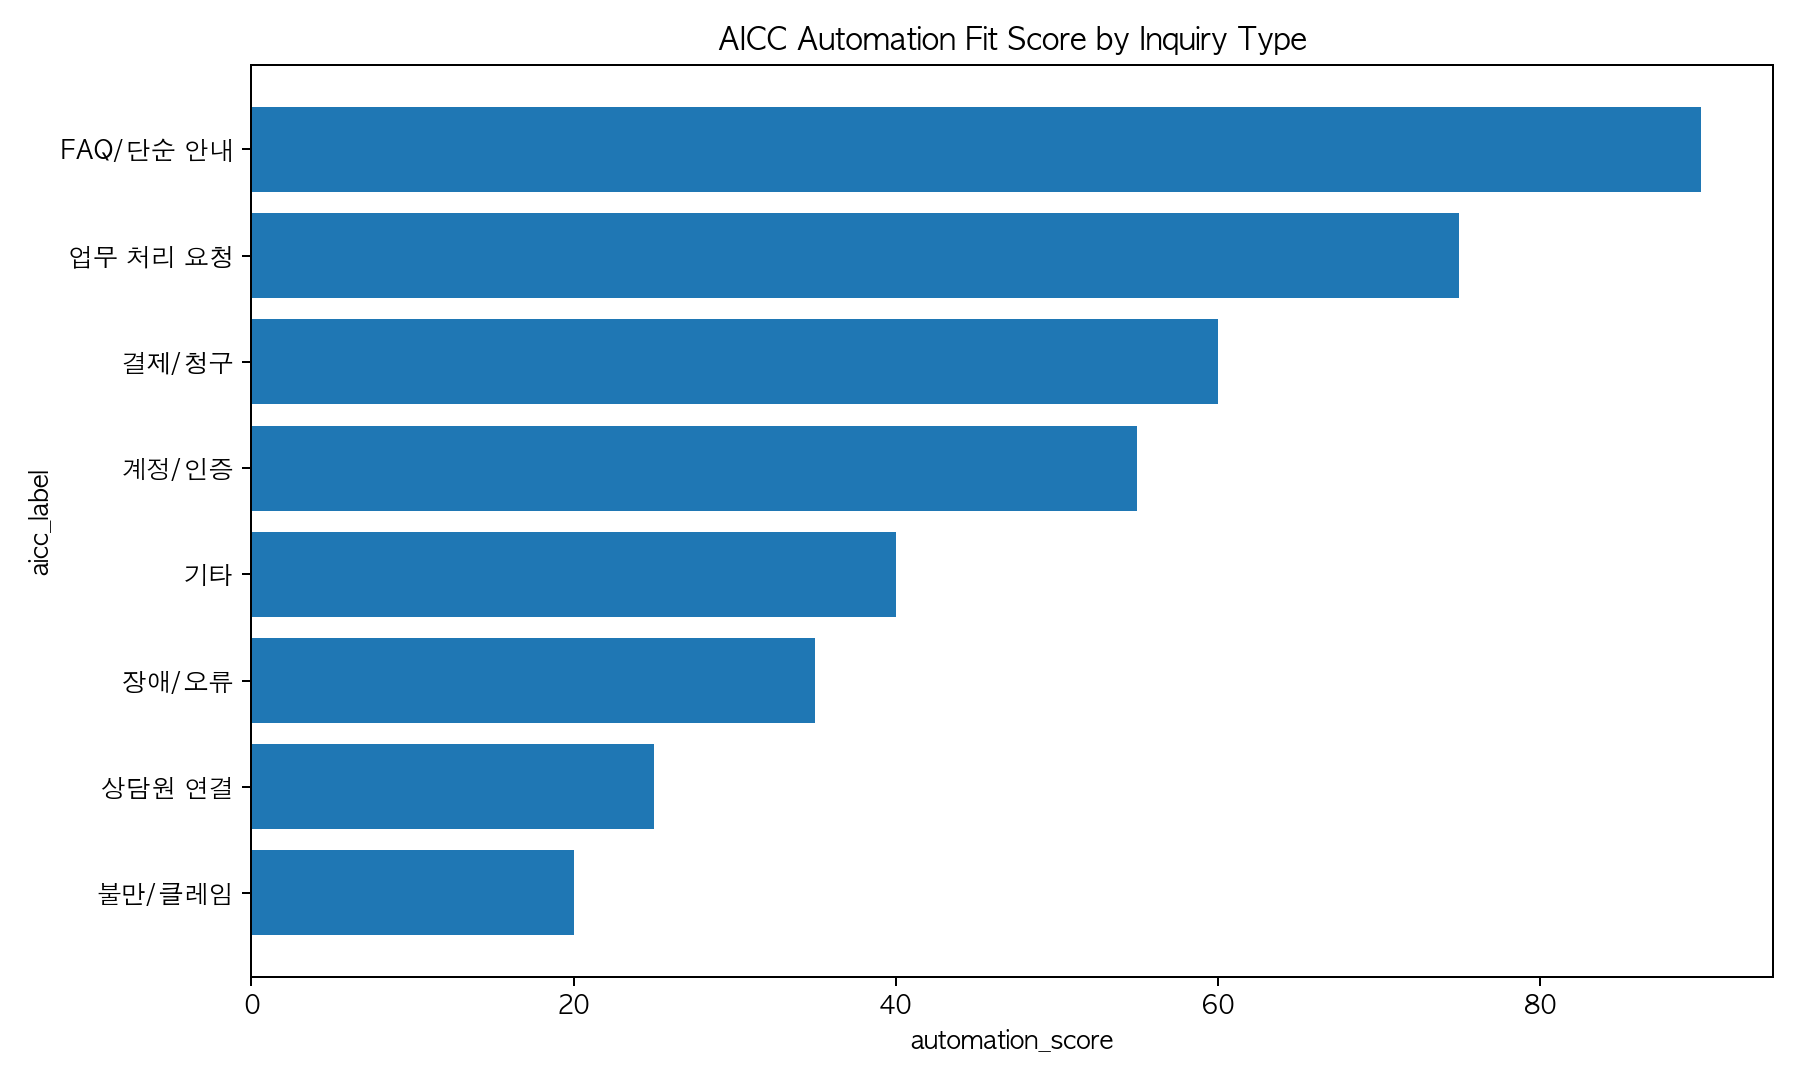
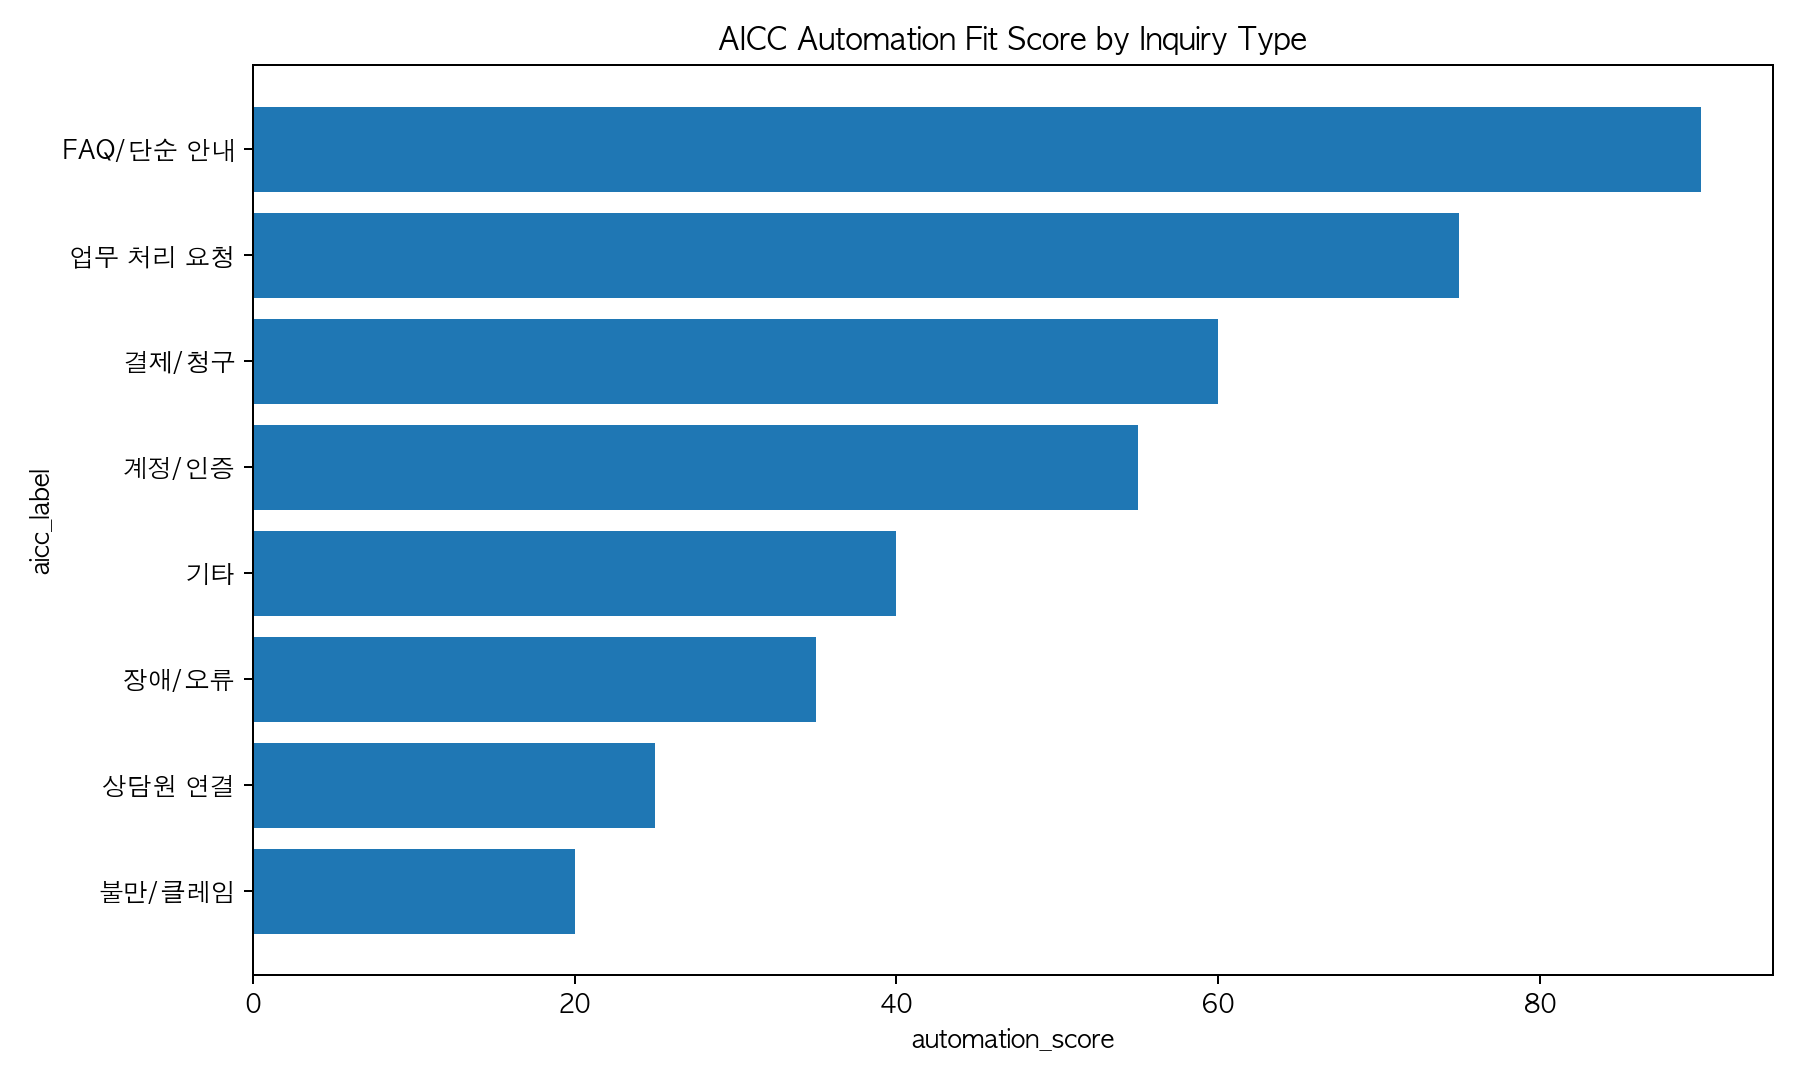
Add guide ratio KPI summary

diff --git a/scripts/03_score_kpi.py b/scripts/03_score_kpi.py
@@ -7,6 +7,7 @@ INPUT_PATH = Path("data/processed/aicc_inquiry_scored.csv")
 
 OUTPUT_CSV = Path("outputs/final/aicc_operation_priority.csv")
 OUTPUT_MD = Path("outputs/final/aicc_operation_priority.md")
+GUIDE_RESULT_CSV = Path("outputs/final/result_summary.csv")
 
 CHART_DIR = Path("outputs/final/charts")
 PRIORITY_CHART = CHART_DIR / "aicc_operation_priority.png"
@@ -141,6 +142,79 @@ def add_recommended_actions(summary: pd.DataFrame) -> pd.DataFrame:
     return enriched
 
 
+def pct(count: int, total: int) -> float:
+    if total == 0:
+        return 0.0
+    return round(count / total * 100, 2)
+
+
+def build_guide_ratio_summary(df: pd.DataFrame) -> pd.DataFrame:
+    counts = df["aicc_label"].value_counts().to_dict()
+    total = len(df)
+
+    def c(label: str) -> int:
+        return int(counts.get(label, 0))
+
+    repair_proxy_count = (
+        c("장애/오류")
+        + c("불만/클레임")
+        + c("계정/인증")
+    )
+
+    rows = [
+        {
+            "metric_group": "guide_ratio_kpi",
+            "metric_name": "자동화 적합도",
+            "score_percent": pct(c("FAQ/단순 안내") + c("업무 처리 요청") + c("기타"), total),
+            "calculation": "FAQ/단순 안내 + 업무 처리 요청 + 기타(LOW_PRIORITY proxy)",
+            "meaning": "음성봇/챗봇으로 처리 가능한 반복·단순·업무 처리 문의 비중",
+            "operation_action": "FAQ와 반복 업무를 Global/Main Scenario로 우선 자동화",
+        },
+        {
+            "metric_group": "guide_ratio_kpi",
+            "metric_name": "Main 시나리오 필요도",
+            "score_percent": pct(c("업무 처리 요청") + c("결제/청구"), total),
+            "calculation": "업무 처리 요청 + 결제/청구",
+            "meaning": "예약·변경·취소·계약·정산 등 업무 처리 흐름이 필요한 문의 비중",
+            "operation_action": "업무 처리 프로세스, 변수 수집, API 연동 포인트 정의",
+        },
+        {
+            "metric_group": "guide_ratio_kpi",
+            "metric_name": "Global 시나리오 필요도",
+            "score_percent": pct(c("FAQ/단순 안내") + c("상담원 연결"), total),
+            "calculation": "FAQ/단순 안내 + 상담원 연결",
+            "meaning": "FAQ·상담원 연결·통화 종료 등 공통 요청 비중",
+            "operation_action": "공통 FAQ와 상담원 연결 정책 표준화",
+        },
+        {
+            "metric_group": "guide_ratio_kpi",
+            "metric_name": "Repair 시나리오 필요도",
+            "score_percent": pct(repair_proxy_count, total),
+            "calculation": "장애/오류 + 불만/클레임 + 계정/인증(REPAIR_RISK proxy)",
+            "meaning": "오류·불만·인증 실패처럼 정상 흐름 이탈 복구가 필요한 문의 비중",
+            "operation_action": "무응답, 의도 불명확, 인증 실패, 오류 상황의 재질문·복구 정책 설계",
+        },
+        {
+            "metric_group": "guide_ratio_kpi",
+            "metric_name": "Auto QA 필요도",
+            "score_percent": pct(c("불만/클레임") + c("장애/오류"), total),
+            "calculation": "불만/클레임 + 장애/오류",
+            "meaning": "불만·장애·오류 등 상담 품질 확인이 필요한 문의 비중",
+            "operation_action": "상담 품질 평가, 키워드 모니터링, 클레임 리뷰 체계 설계",
+        },
+        {
+            "metric_group": "guide_ratio_kpi",
+            "metric_name": "상담원 연결 필요도",
+            "score_percent": pct(c("상담원 연결") + c("불만/클레임") + c("장애/오류"), total),
+            "calculation": "상담원 연결 + 불만/클레임 + 장애/오류",
+            "meaning": "AI 단독 응대보다 상담사 전환이 필요한 문의 비중",
+            "operation_action": "Human Handoff 기준과 상담사 지원 기능 정의",
+        },
+    ]
+
+    return pd.DataFrame(rows)
+
+
 def save_bar_chart(
     df: pd.DataFrame,
     x_col: str,
@@ -255,8 +329,10 @@ def main():
 
     summary = build_priority_table(df)
     summary = add_recommended_actions(summary)
+    guide_ratio_summary = build_guide_ratio_summary(df)
 
     summary.to_csv(OUTPUT_CSV, index=False, encoding="utf-8-sig")
+    guide_ratio_summary.to_csv(GUIDE_RESULT_CSV, index=False, encoding="utf-8-sig")
 
     save_bar_chart(
         summary,
@@ -285,6 +361,7 @@ def main():
     write_markdown_report(summary)
 
     print(f"Saved final operation priority CSV: {OUTPUT_CSV}")
+    print(f"Saved guide ratio KPI summary CSV: {GUIDE_RESULT_CSV}")
     print(f"Saved final operation priority report: {OUTPUT_MD}")
     print(f"Saved chart: {PRIORITY_CHART}")
     print(f"Saved chart: {AUTOMATION_CHART}")
